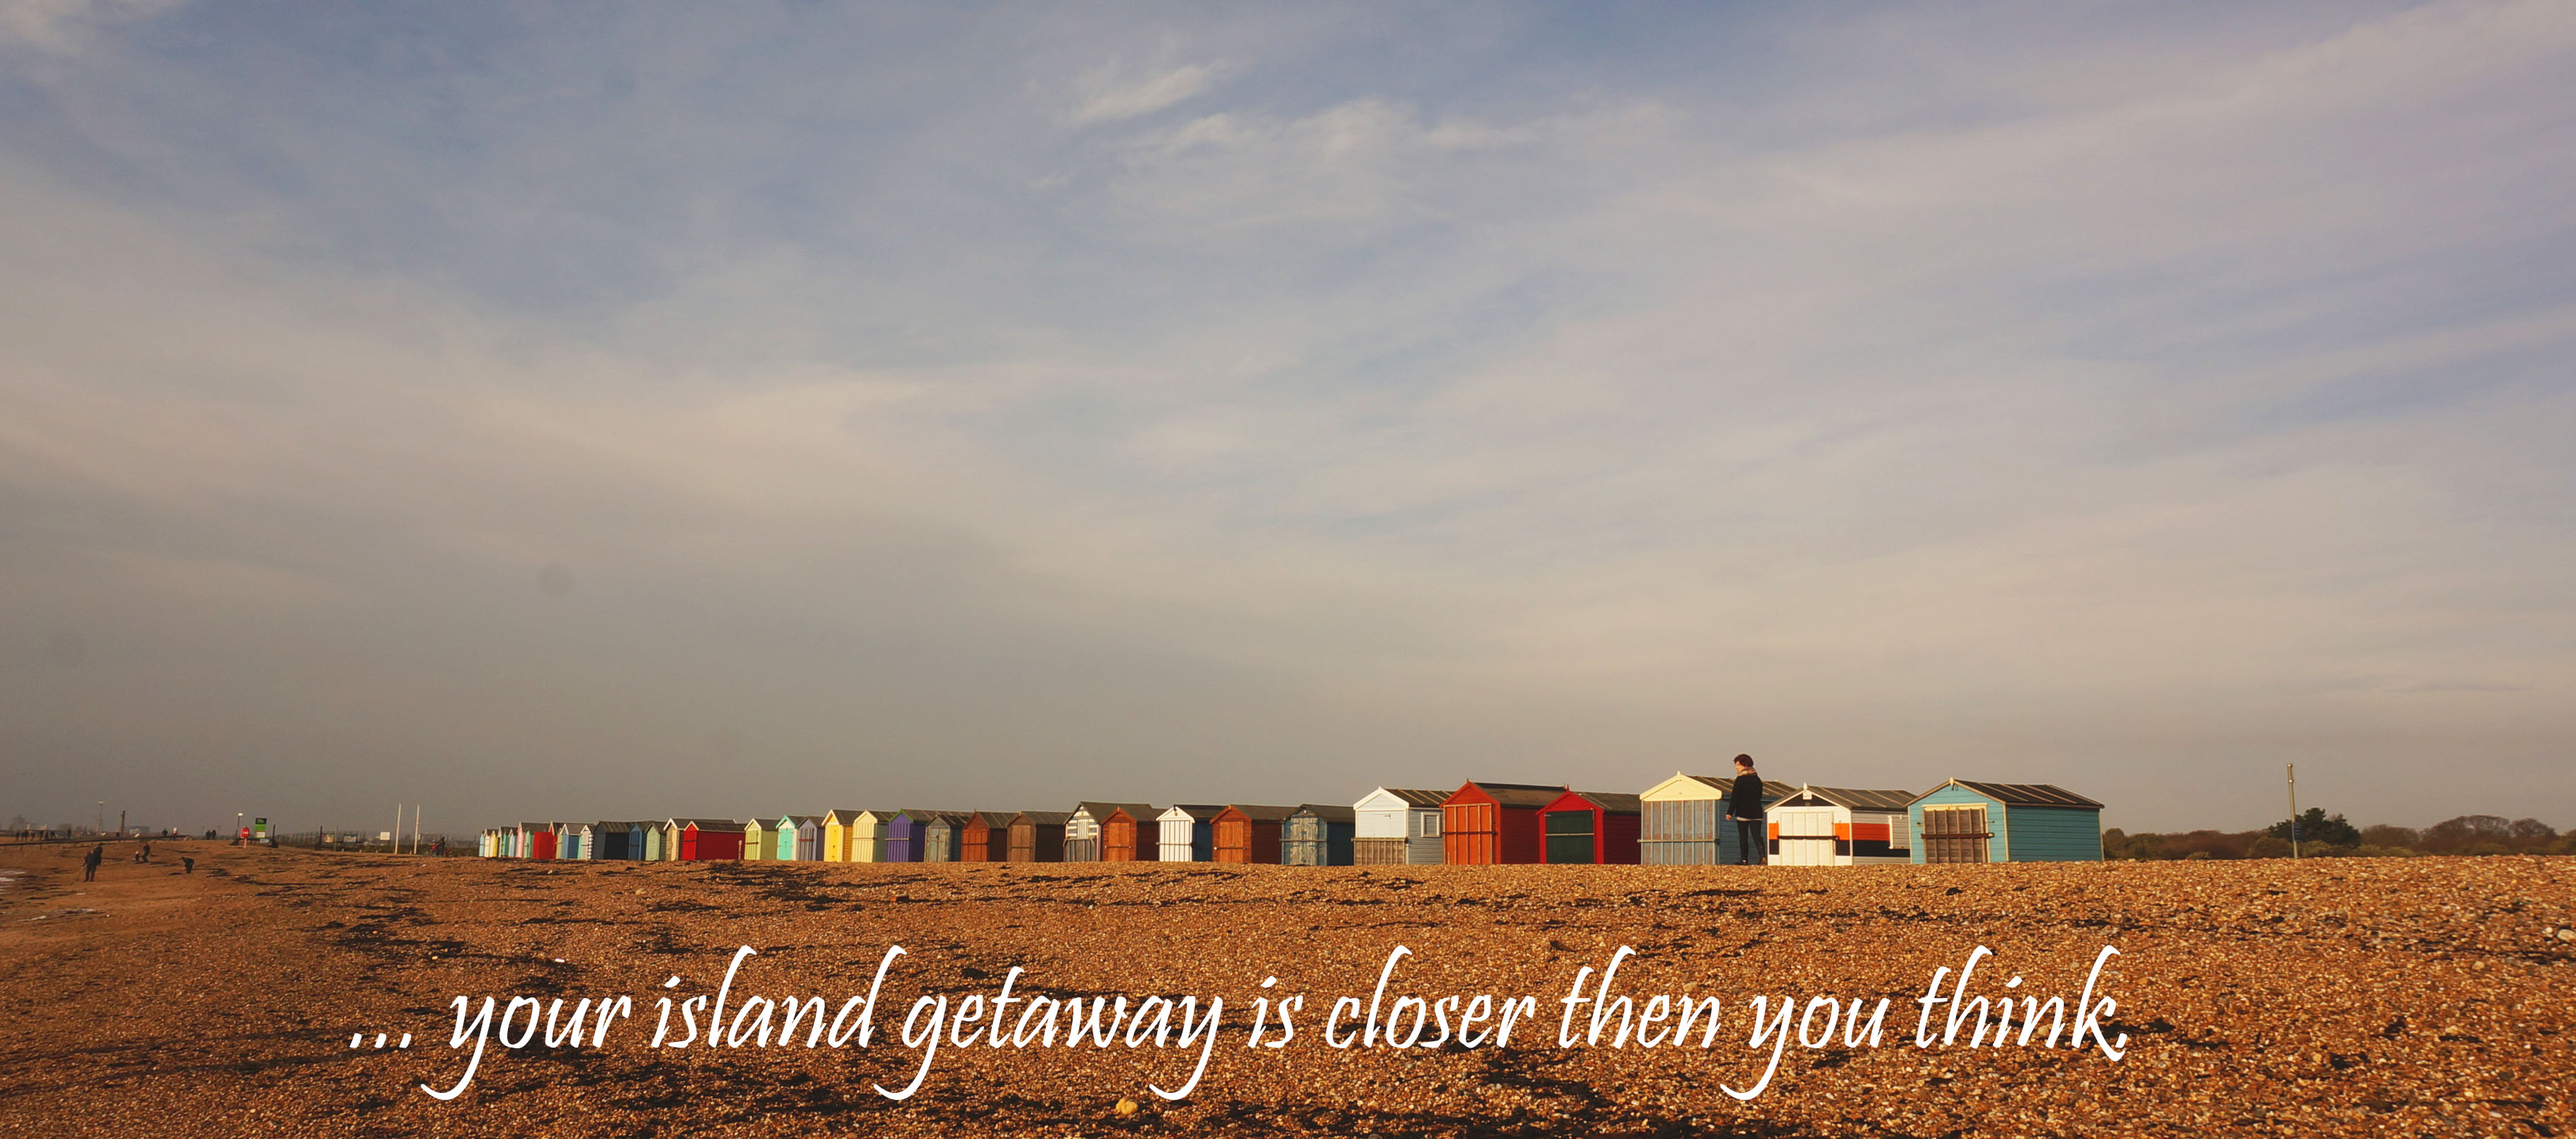
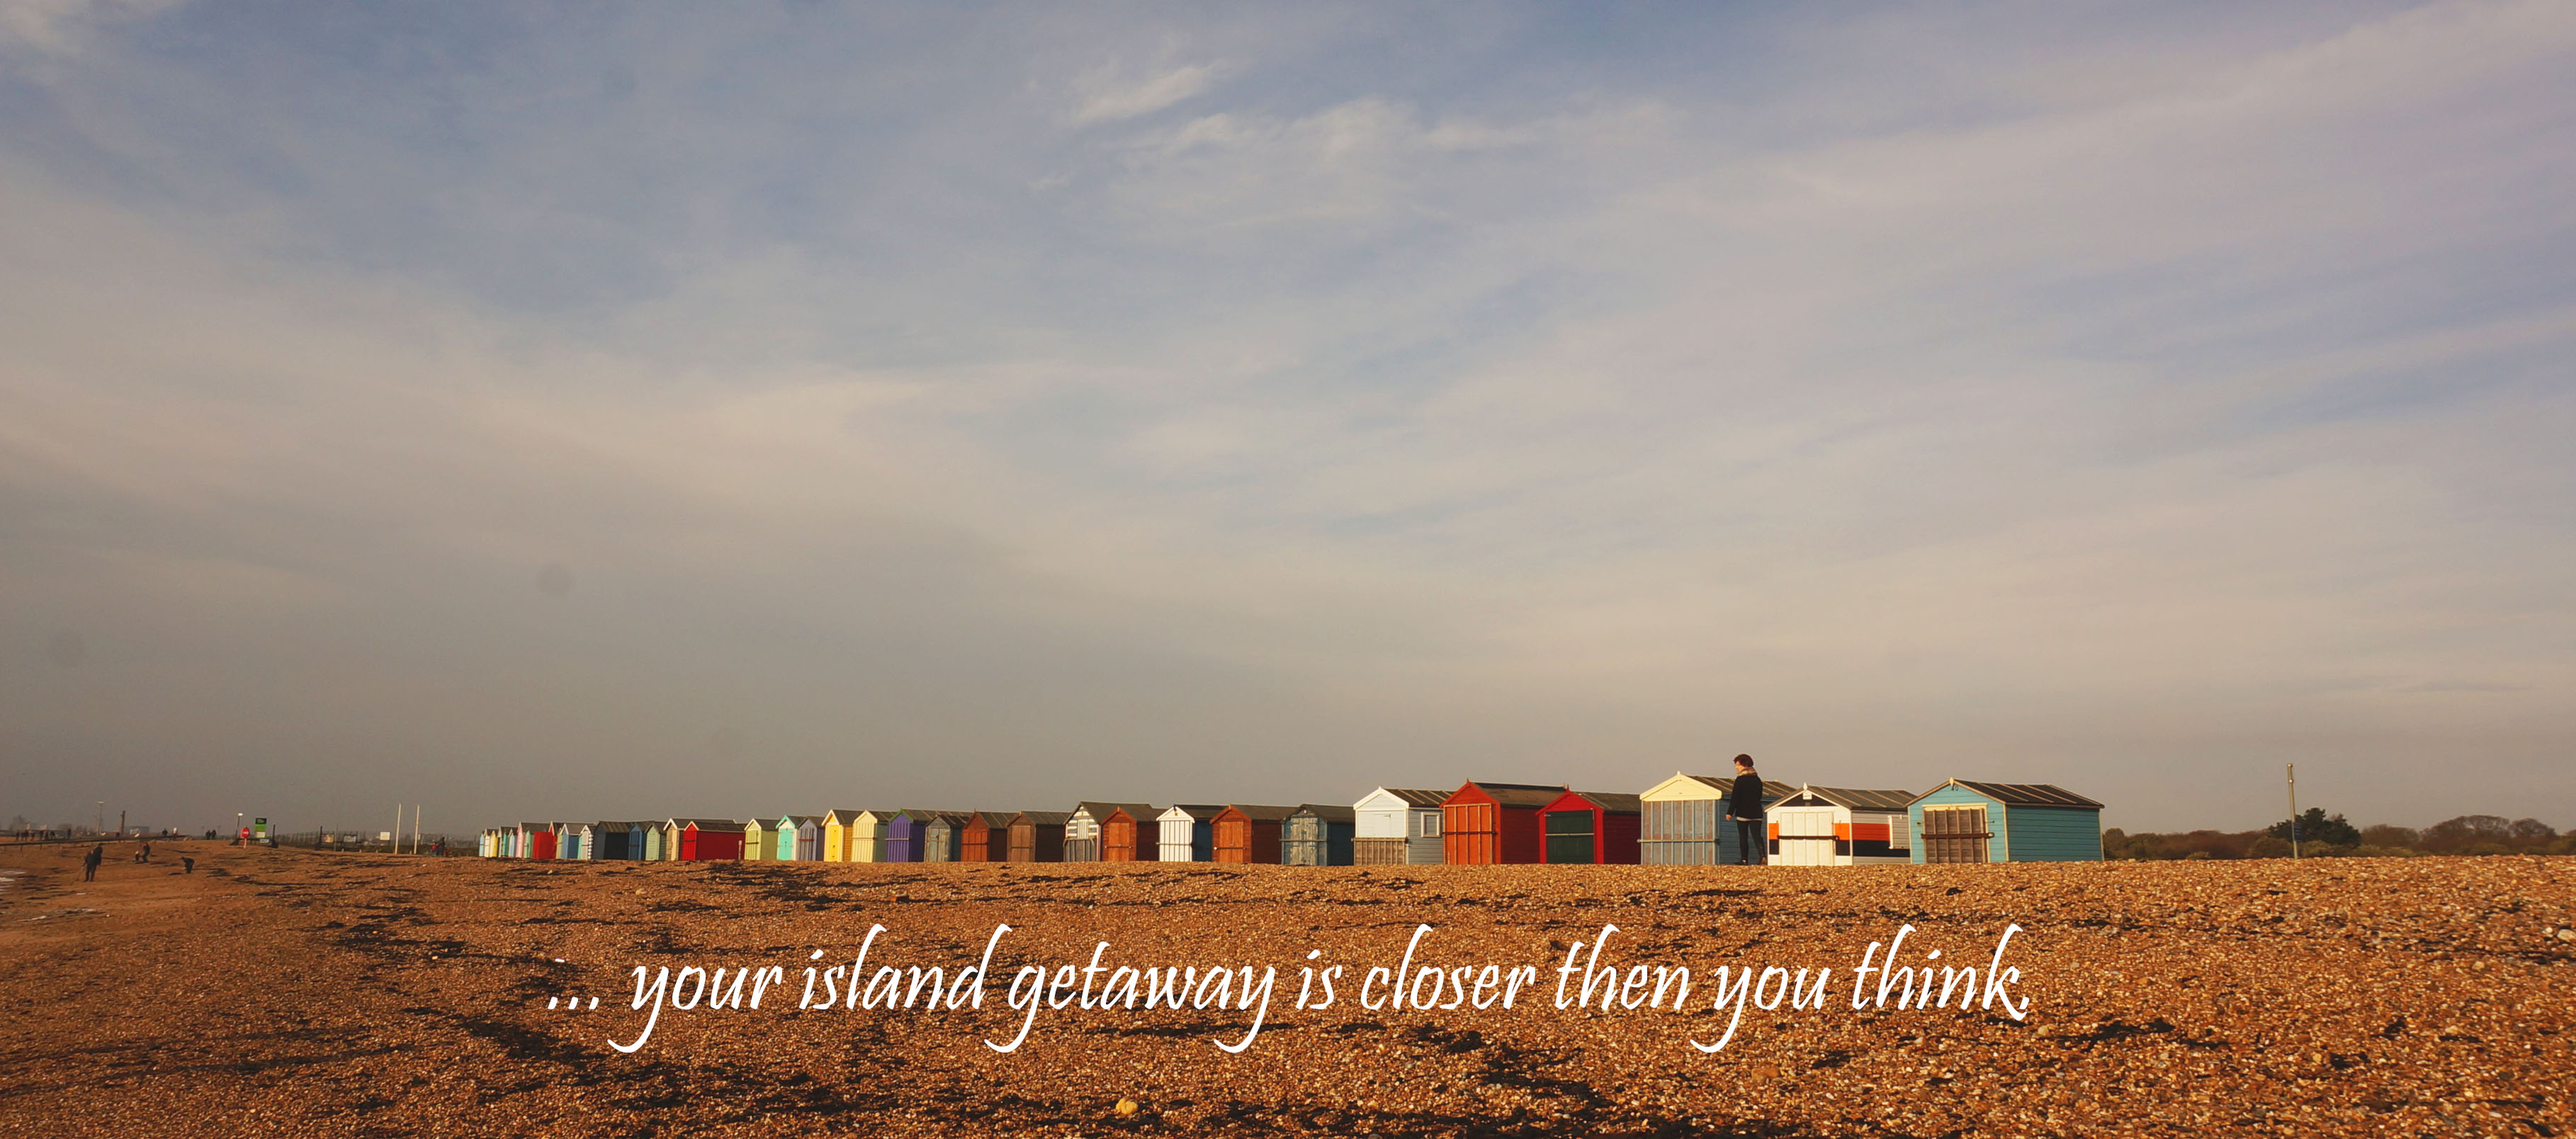
home pic gallery

Changed region(s): [[0.1554, 0.8085, 0.8391, 0.9639]]

diff --git a/HI_home.html b/HI_home.html
@@ -10,6 +10,7 @@
 
     <link rel="stylesheet" href-"css/bootstrap.css"> <!--bootstrap link-->
     <link rel= 'stylesheet' type = 'text/css' href = './style.css'> <!-- css file link-->
+    <script src="./new.js"></script>
 </head>
 
 
@@ -43,11 +44,46 @@
   </<header>
 
   <!-- homepage - main picture-->
-  <div class="home_pic">
+  <div class="slideshow-container">
 
-    <img src="./home_pic2.jpg" alt="Homepage img" width="100%"-->
-    <!--div class = "home_pic_txt">..your island getaway is closer than you think.</div> <!-- picture_text-->
-  </div>
+<div class="mySlides fade">
+  <!--div class="numbertext">1 / 3</div-->
+  <img src="./home_pic2.jpg" width="100%">
+  <!--div class="text">...your island getaway is closer than you think.</div-->
+</div>
+
+<div class="mySlides fade">
+  <!--div class="numbertext">2 / 3</div-->
+  <img src="./home_pic4.jpg" width="100%">
+  <!--div class="text">Caption Two</div-->
+</div>
+
+<div class="mySlides fade">
+  <!--div class="numbertext">3 / 3</div-->
+  <img src="./home_pic5.jpg" width="100%">
+  <!--div class="text">Caption Three</div-->
+</div>
+<div class="mySlides fade">
+  <!--div class="numbertext">3 / 3</div-->
+  <img src="./home_pic6.jpg" width="100%">
+  <!--div class="text">Caption Three</div-->
+</div>
+<div class="mySlides fade">
+  <!--div class="numbertext">3 / 3</div-->
+  <img src="./home_pic7.jpg" width="100%">
+  <!--div class="text">Caption Three</div-->
+</div>
+</div>
+
+<div>
+  <span class="dot"></span>
+  <span class="dot"></span>
+  <span class="dot"></span>
+  <span class="dot"></span>
+  <span class="dot"></span>
+</div>
+<script src="./new.js"></script>
+
 
   <!-- homepage - main text-->
   <div class="home_txt">

diff --git a/style.css b/style.css
@@ -109,15 +109,66 @@ header h1 {
   text-align: center;
   color: white;
 }
-/* homepage picture_text */
-/*.home_pic_txt {
-  position: absolute;
-    top: 90%;
-    left: 50%;
-    transform: translate(-50%, -50%);
-  font: 400 60px/1.3 'Arizonia', Helvetica, sans-serif;
 
-}*/
+/*/// home pics gallery ////*/
+* {box-sizing: border-box;}
+.mySlides {display: none;}
+img {vertical-align: middle;}
+
+/* Slideshow container */
+.slideshow-container {
+  max-width: 100%;
+  position:static;
+  margin: auto;
+}
+/* The dots/bullets/indicators */
+.dot {
+  height: 15px;
+  width: 15px;
+  margin: 0 2px;
+  background-color: #bbb;
+  border-radius: 50%;
+  display: inline-block;
+  transition: background-color 0.6s ease;
+}
+
+.active {
+  background-color: #717171;
+}
+
+/* Fading animation */
+.fade {
+  -webkit-animation-name: fade;
+  -webkit-animation-duration: 1.5s;
+  animation-name: fade;
+  animation-duration: 1.5s;
+}
+
+@-webkit-keyframes fade {
+  from {opacity: .4}
+  to {opacity: 1}
+}
+
+@keyframes fade {
+  from {opacity: .4}
+  to {opacity: 1}
+}
+
+/* On smaller screens, decrease text size */
+@media only screen and (max-width: 300px) {
+  .text {font-size: 11px}
+}
+
+
+
+
+
+
+
+
+
+
+
 /* homepage main text*/
 .home_txt {
   height:auto;

diff --git a/HI_home.js b/HI_home.js
@@ -1,0 +1,19 @@
+var slideIndex = 0;
+showSlides();
+
+function showSlides() {
+  var i;
+  var slides = document.getElementsByClassName("mySlides");
+  var dots = document.getElementsByClassName("dot");
+  for (i = 0; i < slides.length; i++) {
+    slides[i].style.display = "none";
+  }
+  slideIndex++;
+  if (slideIndex > slides.length) {slideIndex = 1}
+  for (i = 0; i < dots.length; i++) {
+    dots[i].className = dots[i].className.replace(" active", "");
+  }
+  slides[slideIndex-1].style.display = "block";
+  dots[slideIndex-1].className += " active";
+  setTimeout(showSlides, 8000); // Change image every 8 seconds
+}
